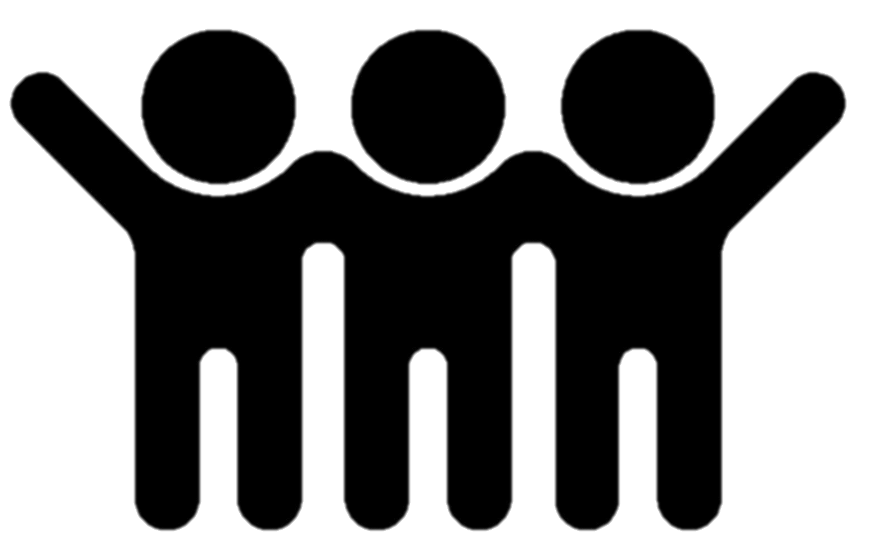
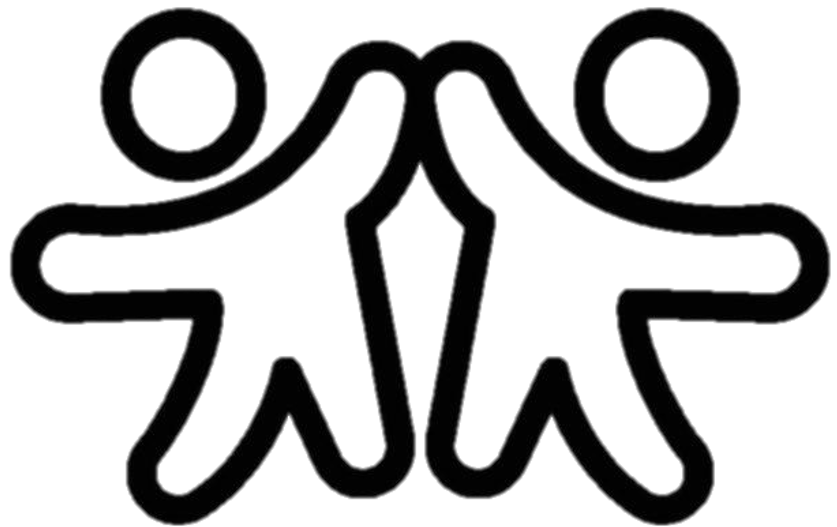
0738

diff --git a/components/navigation/bottom-nav.tsx b/components/navigation/bottom-nav.tsx
@@ -77,31 +77,38 @@ function VideoBoardIcon({ className }: { className?: string }) {
   );
 }
 
+type NavKey = "home" | "fellowship" | "gallery" | "video" | "settings";
+
 const items = [
   {
     href: "/home",
     label: "Home",
     icon: House,
+    navKey: "home" as const,
   },
   {
     href: "/home#fellowship",
     label: "Fellowship",
     icon: FellowshipIcon,
+    navKey: "fellowship" as const,
   },
   {
     href: "/study",
     label: "Gallery",
     icon: GalleryIcon,
+    navKey: "gallery" as const,
   },
   {
     href: "/video",
     label: "Video",
     icon: VideoBoardIcon,
+    navKey: "video" as const,
   },
   {
     href: "/settings",
     label: "Setting",
     icon: Settings,
+    navKey: "settings" as const,
   },
 ] as const;
 
@@ -143,6 +150,7 @@ export function BottomNav() {
   const [isAndroid, setIsAndroid] = useState(false);
   const [hash, setHash] = useState("");
   const [fellowshipAccessState, setFellowshipAccessState] = useState<FellowshipAccessState>("unknown");
+  const [optimisticNavKey, setOptimisticNavKey] = useState<NavKey | null>(null);
   const isFellowshipActive = pathname === "/home" && hash === "#fellowship";
   const shouldShow = pathname === "/home" || pathname === "/study" || pathname === "/video" || pathname === "/settings";
 
@@ -170,6 +178,20 @@ export function BottomNav() {
       window.removeEventListener("hashchange", syncHash);
     };
   }, []);
+
+  useEffect(() => {
+    const actualNavKey: NavKey = pathname === "/home"
+      ? hash === "#fellowship"
+        ? "fellowship"
+        : "home"
+      : pathname === "/study"
+        ? "gallery"
+        : pathname === "/video"
+          ? "video"
+          : "settings";
+
+    setOptimisticNavKey((current) => (current === actualNavKey ? null : current));
+  }, [hash, pathname]);
 
   useEffect(() => {
     router.prefetch("/home");
@@ -209,9 +231,10 @@ export function BottomNav() {
     };
   }, []);
 
-  function handleStandardNavClick(event: MouseEvent<HTMLAnchorElement>, href: string) {
+  function handleStandardNavClick(event: MouseEvent<HTMLAnchorElement>, href: string, navKey: NavKey) {
     event.preventDefault();
 
+    setOptimisticNavKey(navKey);
     navigationTransition?.showTemporaryLaunch(180);
 
     if (href === "/home") {
@@ -240,6 +263,7 @@ export function BottomNav() {
       setFellowshipAccessState(nextState);
     }
 
+    setOptimisticNavKey("fellowship");
     navigationTransition?.showTemporaryLaunch(180);
 
     if (nextState === "active") {
@@ -258,10 +282,12 @@ export function BottomNav() {
     }
 
     if (nextState === "pending") {
+      setOptimisticNavKey(null);
       router.push("/access-required?mode=pending&context=community-feed&next=%2Fhome%23fellowship");
       return;
     }
 
+    setOptimisticNavKey(null);
     router.push("/access-required?context=community-feed&next=%2Fhome%23fellowship");
   }
 
@@ -286,31 +312,41 @@ export function BottomNav() {
         >
           {items.map((item) => {
             const Icon = item.icon;
-            const isActive =
+            const actualNavKey: NavKey = item.label === "Fellowship"
+              ? "fellowship"
+              : item.label === "Home"
+                ? "home"
+                : item.label === "Gallery"
+                  ? "gallery"
+                  : item.label === "Video"
+                    ? "video"
+                    : "settings";
+            const isActive = optimisticNavKey ? optimisticNavKey === actualNavKey : (
               item.label === "Fellowship"
                 ? isFellowshipActive
                 : item.label === "Home"
                   ? pathname === "/home" && !isFellowshipActive
-                  : pathname === item.href;
+                  : pathname === item.href
+            );
 
             return (
               <Link
                 aria-label={item.label}
                 className={`bottom-nav-item flex min-h-11 items-center justify-center transition ${
                   isActive ? "bottom-nav-item-active text-primary" : "bottom-nav-item-inactive text-accent-foreground"
-                } ${isAndroid ? "rounded-[12px]" : "rounded-[19px]"}`}
+                } ${isAndroid ? "rounded-[12px] py-1.5" : "rounded-[19px] py-1.5"}`}
                 href={item.href}
                 key={item.href}
                 onClick={(event) =>
                   item.label === "Fellowship"
                     ? handleFellowshipClick(event)
-                    : handleStandardNavClick(event, item.href)
+                    : handleStandardNavClick(event, item.href, item.navKey)
                 }
               >
                 <Icon
                   className={`${
-                    item.label === "Video" ? "size-[1.7rem]" : item.label === "Fellowship" ? "size-[2.25rem]" : item.label === "Setting" ? "size-[1.45rem]" : "size-6"
-                  } ${isActive ? "stroke-[2.35]" : "stroke-[2.1]"}`}
+                    item.label === "Video" ? "size-[1.55rem]" : item.label === "Fellowship" ? "size-[2.05rem]" : item.label === "Setting" ? "size-[1.3rem]" : "size-[1.35rem]"
+                  } ${isActive ? "stroke-[2.2]" : "stroke-[2.05]"}`}
                 />
               </Link>
             );

diff --git a/app/globals.css b/app/globals.css
@@ -40,15 +40,15 @@
 :root[data-theme="dark"] {
   color-scheme: dark;
   --background: #121212;
-  --foreground: #FFFFFF;
+  --foreground: #DDDDDD;
   --card: rgba(9, 18, 27, 0.9);
-  --card-foreground: #FFFFFF;
+  --card-foreground: #DDDDDD;
   --popover: rgba(9, 18, 27, 0.96);
-  --popover-foreground: #FFFFFF;
+  --popover-foreground: #DDDDDD;
   --primary: #90b7ad;
   --primary-foreground: #0d1519;
   --secondary: #111720;
-  --secondary-foreground: #FFFFFF;
+  --secondary-foreground: #DDDDDD;
   --muted: #10151e;
   --muted-foreground: #B3B3B3;
   --accent: #151c26;
@@ -63,7 +63,7 @@
   --bg: #121212;
   --paper: #10151e;
   --paper-strong: #121821;
-  --ink: #FFFFFF;
+  --ink: #DDDDDD;
   --line: rgba(185, 192, 208, 0.14);
   --accent-soft: #1b212b;
   --accent-strong: #dbe9e4;
@@ -678,12 +678,12 @@ h2 {
 
 :root[data-theme="dark"] .google-sign-in-button {
   border-color: #1E1E1E;
-  color: #FFFFFF;
+  color: #DDDDDD;
 }
 
 :root[data-theme="dark"] .google-sign-in-button:hover {
   border-color: #1E1E1E;
-  color: #FFFFFF;
+  color: #DDDDDD;
 }
 
 .launch-screen {
@@ -702,11 +702,11 @@ h2 {
 @media (prefers-color-scheme: dark) {
   .launch-screen {
     background: #121212;
-    color: #FFFFFF;
+    color: #DDDDDD;
   }
 
   .launch-title {
-    color: #FFFFFF;
+    color: #DDDDDD;
   }
 
   .launch-subtitle {
@@ -719,8 +719,13 @@ h2 {
   background: #1E1E1E;
 }
 
+:root[data-theme="dark"] .bottom-nav-item-inactive {
+  color: #AFAFAF;
+}
+
 :root[data-theme="dark"] .bottom-nav-item-active {
-  background: #A3A3A3;
+  background: #3A3A3A;
+  color: #DDDDDD;
 }
 
 :root[data-theme="light"] .announcement-card-surface {
@@ -753,7 +758,7 @@ h2 {
 }
 
 :root[data-theme="dark"] .quick-action-icon {
-  color: #FFFFFF;
+  color: #DDDDDD;
 }
 
 :root[data-theme="dark"] .event-surface,

diff --git a/app/(platform)/access-required/page.tsx b/app/(platform)/access-required/page.tsx
@@ -22,7 +22,11 @@ function getCopy(context?: string, mode?: string) {
       ? "Prayer"
       : context === "community-feed"
         ? "Community Feed"
-        : "Member Access";
+        : context === "gallery"
+          ? "Gallery"
+          : context === "video"
+            ? "Video"
+            : "Member Access";
 
   if (mode === "pending") {
     return {

diff --git a/components/community/community-updates-section.tsx b/components/community/community-updates-section.tsx
@@ -1172,7 +1172,7 @@ export function CommunityUpdatesSection({
                   </button>
                 )}
                 {isComposerExpanded ? (
-                  <span className="pointer-events-none absolute bottom-3 right-0 text-xs text-muted-foreground">
+                  <span className="pointer-events-none absolute bottom-3 right-4 text-xs text-muted-foreground">
                     {summary.length}/{CONTENT_LIMIT}
                   </span>
                 ) : (

diff --git a/components/prayer/prayer-page-client.tsx b/components/prayer/prayer-page-client.tsx
@@ -566,7 +566,7 @@ export function PrayerPageClient({
                       />
                     ) : (
                       <button
-                        className="prayer-form-input flex h-10 min-h-10 w-full items-center rounded-[16px] border border-transparent bg-white px-4 pr-12 text-left text-base text-muted-foreground"
+                        className="prayer-form-input flex h-10 min-h-10 w-full items-center rounded-[16px] border border-border/70 bg-white px-4 pr-12 text-left text-base text-muted-foreground"
                         onClick={() => setIsComposerExpanded(true)}
                         type="button"
                       >

diff --git a/components/settings/ui-preferences-sync.tsx b/components/settings/ui-preferences-sync.tsx
@@ -38,7 +38,7 @@ export function applyUiTheme(mode: ThemeMode) {
 
   const resolvedTheme = getResolvedTheme(mode);
   const background = resolvedTheme === "dark" ? "#121212" : "#f6f4e1";
-  const foreground = resolvedTheme === "dark" ? "#FFFFFF" : "#1e2a2a";
+  const foreground = resolvedTheme === "dark" ? "#DDDDDD" : "#1e2a2a";
 
   document.documentElement.dataset.theme = resolvedTheme;
   document.documentElement.dataset.themeMode = mode;